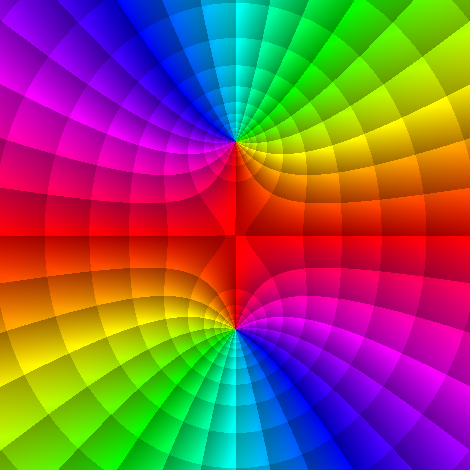
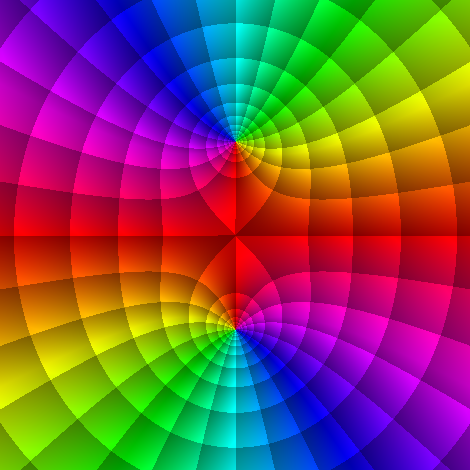
updated

diff --git a/domain-coloring/index.html b/domain-coloring/index.html
@@ -131,23 +131,35 @@
         <div class="modal-content">
             <span class="close close_multi">&times;</span>
             <div style="text-align:center">
-                <p class="w3-large"><b class="w3-xlarge">Video tutorial</b>
+                <!--<p class="w3-large"><b class="w3-xlarge">Video tutorial</b>
                 
+                <br>-->
+                
+                <img class="w3-card-4 w3-round-small" src="img/basictool.png" alt="basictool" style="width:55%">
+                
+                <!--<iframe width="100%" height="455" src="https://www.youtube.com/embed/sKslh6eo-JE" frameborder="0" allow="accelerometer; autoplay; encrypted-media; gyroscope; picture-in-picture" allowfullscreen></iframe>-->
+                </div>
                 <br>
                 
-                <iframe width="100%" height="455" src="https://www.youtube.com/embed/sKslh6eo-JE" frameborder="0" allow="accelerometer; autoplay; encrypted-media; gyroscope; picture-in-picture" allowfullscreen></iframe>
+                <div class="w3-large" "w3-left">
+                <p><b class="w3-xlarge">Level curves:</b> Select an option 'Phase', 'Modulus', 'Phase/Modulus' or 'None'.</p>
                 
-                <br>
+                <p><b class="w3-xlarge">Re(x,y) and Im(x,y):</b> Enter Real and imaginary components.</p>
                 
-                <p class="w3-large"><b class="w3-xlarge">Examples:</b> <br>
-                For plotting $\large{f(z)=z^2}$, enter the values <br>
-                <t>Re(x,y)= x*x-y*y</t> and <t>Im(x, y)= 2*x*y</t><br>
-                <br>
+                <p><b class="w3-xlarge">Examples:</b> <br>
+                For plotting $\large{f(z)=z^2}$, enter the values <br><br>
+                <t>Re(x,y)= x*x-y*y</t> <br> <t>Im(x, y)= 2*x*y</t></p>
                 
-                For plotting $\large{f(z)=1/z}$, enter the values <br>
-                <t>Re(x,y)= x+x/(x*x+y*y)</t> and <t>Im(x, y)= y-y/(x*x+y*y)</t><br></p>
-                <br>
-            </div>
+                
+                <p>For plotting $\large{f(z)=1/z}$, enter the values <br><br>
+                <t>Re(x,y)= x+x/(x*x+y*y)</t> <br> <t>Im(x, y)= y-y/(x*x+y*y)</t></p>
+                
+                <p><b class="w3-xlarge">|Re z|&lt;:</b> Enter a positive real number defining the size of the square for plotting  the function.</p>
+                
+                <p><b class="w3-xlarge">Save (png):</b> Click to save your plot.</p>
+                
+                </div>
+            
         </div>
         
     </div>
@@ -205,6 +217,37 @@
             <div class="modal-content">
                 <span class="close close_multi">&times;</span>
                 <div style="text-align:center">
+                <!--<p class="w3-large"><b class="w3-xlarge">Video tutorial</b>
+                
+                <br>-->
+                
+                <img class="w3-card-4 w3-round-small" src="img/advtool.png" alt="advtool" style="width:55%">
+                
+                <!--<iframe width="100%" height="455" src="https://www.youtube.com/embed/sKslh6eo-JE" frameborder="0" allow="accelerometer; autoplay; encrypted-media; gyroscope; picture-in-picture" allowfullscreen></iframe>-->
+                </div>
+                <br>
+                
+                <div class="w3-large" "w3-left">
+                <p><b class="w3-xlarge">Level curves:</b> Select an option 'Phase', 'Modulus', 'Phase/Modulus' or 'None'.</p>
+                
+                <p><b class="w3-xlarge">f(z):</b> Enter the complex function.</p>
+                
+                <p><b class="w3-xlarge">Examples:</b> <br>
+                For plotting $\large{f(z)=z^2+i}$, enter the value
+                <t>f(z) = z.pow(2).add("i")<br>
+                    <br>
+                    
+                    For plotting $\large{f(z)=\log(1/z)}$, enter the value
+                    <t>f(z) = z.inverse().log()<br><p>
+                
+                <p><b class="w3-xlarge">|Re z|&lt;:</b> Drag or enter a positive number to define the square for plotting the function.</p>
+                
+                <p><b class="w3-xlarge">Update values:</b> Click to update all new  values.</p>
+                
+                <p><b class="w3-xlarge">Save (png):</b> Click to save your plot.</p>
+                
+                </div>
+                <!--<div style="text-align:center">
                     <p class="w3-large"><b class="w3-xlarge">Video tutorial</b>
                     
                     <br>
@@ -219,7 +262,7 @@
                     For plotting $\large{f(z)=log(1/z)}$, enter the value
                     <t>f(z) = z.inverse().log()<br></p>
                         <br>
-                </div>
+                </div>-->
             </div>
             
         </div>
@@ -314,7 +357,6 @@
     <li>Needham, T. (1997). <em>Visual Complex Analysis.</em> Oxford University Press, Oxford.</li>
     <li>Marsden, J. E. &amp; Hoffman, M. J. (1987) <em>Basic Complex Analysis.</em> (2nd ed.) W. H. Freeman and Co,
         New York.</li>
-    <li>Farris, F. A. (1998). Review of Visual Complex Analysis. By Tristan Needham. <em>American Mathematical Monthly</em> 105 (1998), 570–576.</li>
     <li>Wegert, E. (2010). Phase diagrams of meromorphic functions. <em>Comput. Methods Funct.</em> Theory 10, 639-661.</li>
     <li>Wegert, E. (2012). <em>Visual Complex Functions: An introduction with phase portraits.</em> New York: Springer Basel.</li>
     <li>Wegert, E. &amp; Semmler, G. (2011). Phase plots of complex functions: a journey in illustration. <em>Notices Amer. Math. Soc.</em> 58, 768-780. <a href="https://www.ams.org/notices/201106/rtx110600768p.pdf" target="_blank" title="Open link" class="w3-text-indigo w3-hover-text-blue"><i class="fas fa-external-link-alt"></i></a></li>
